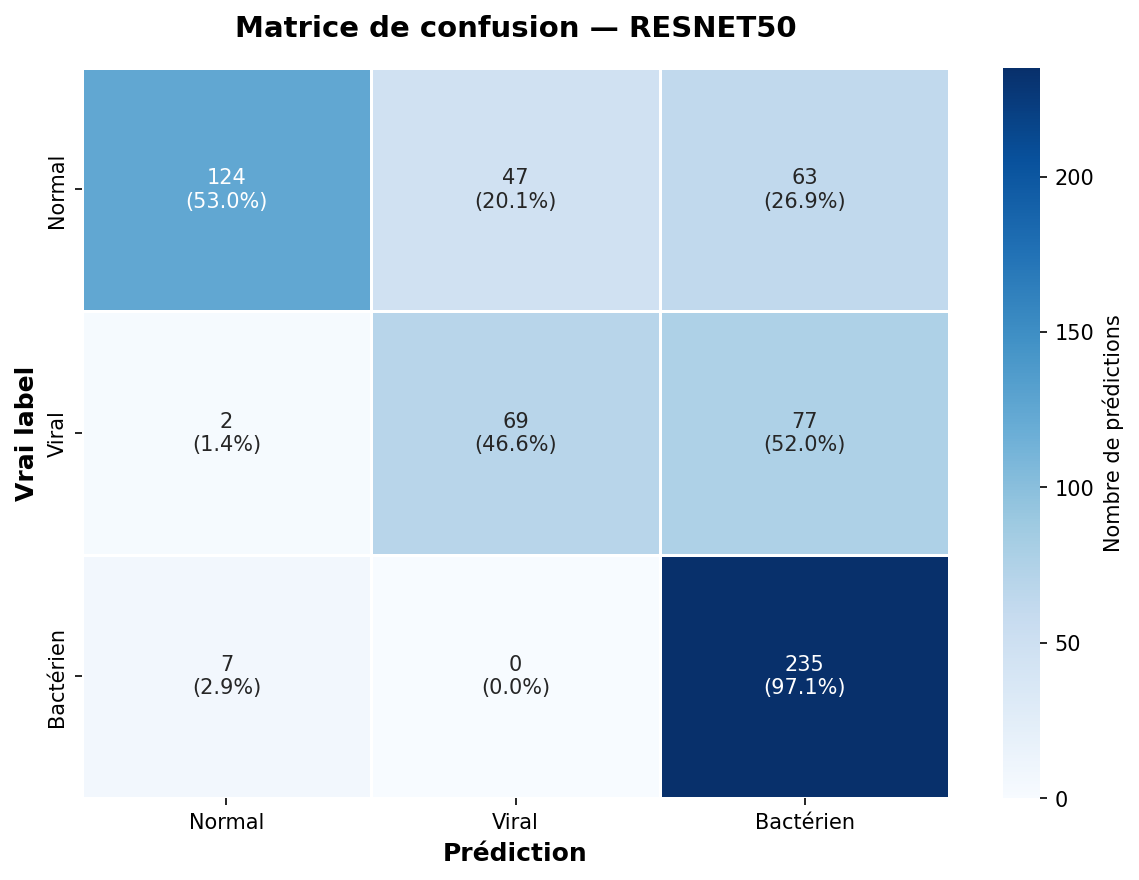
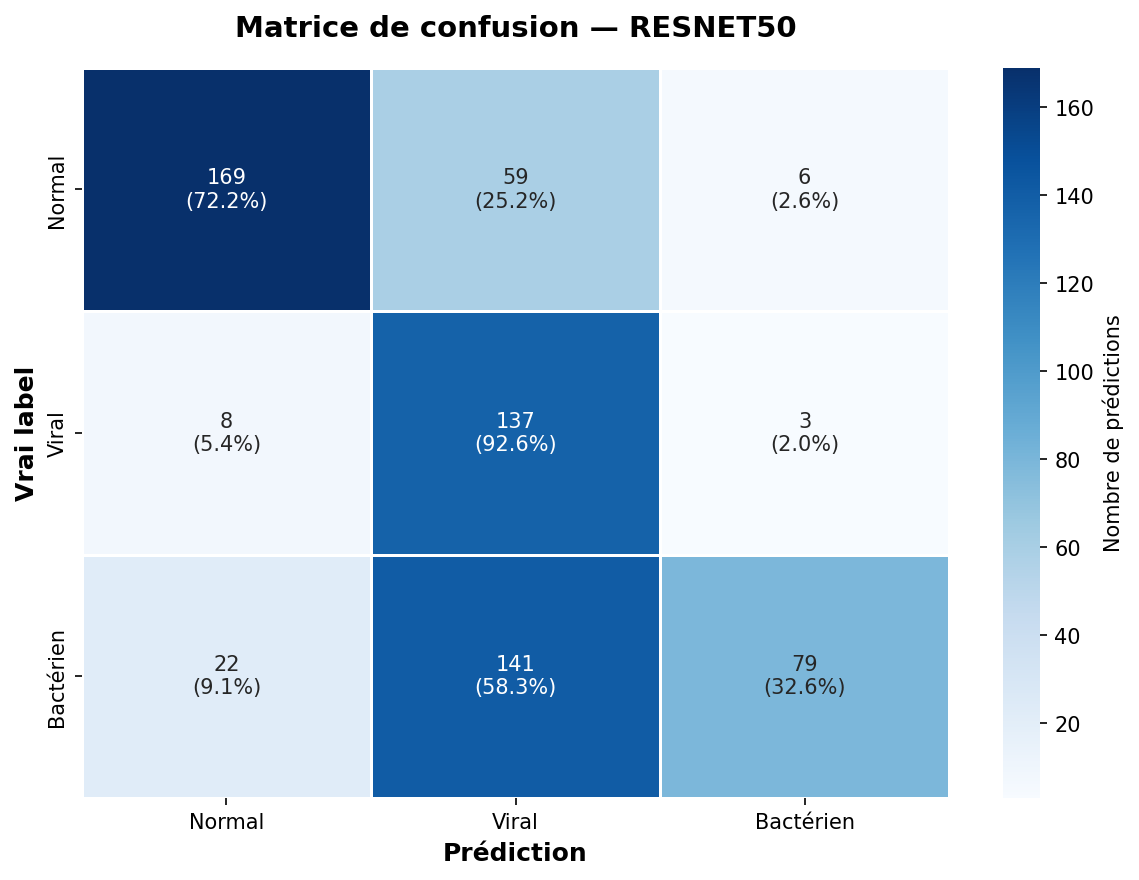
feat(main/registry): update statics values

diff --git a/main.py b/main.py
@@ -14,8 +14,8 @@ import argparse
 import torch
 import torch.nn as nn
 import torch.optim as optim
-from torch.optim.lr_scheduler import ReduceLROnPlateau
-from torch.utils.data import DataLoader
+from torch.optim.lr_scheduler import ReduceLROnPlateau, OneCycleLR
+from torch.utils.data import DataLoader, WeightedRandomSampler
 
 from src.data import Lungdataset, get_train_transforms, get_val_transforms
 from src.models import get_model, MODEL_REGISTRY, EnsemblePredictor
@@ -28,10 +28,10 @@ NUM_CLASSES = 3
 BATCH_SIZE = 16 
 LR = 1e-5
 EPOCHS = 50
-PATIENCE = 10 
+PATIENCE = 15 
 LABEL_SMOOTHING = 0.05 
 GRAD_ACCUM_STEPS = 2
-MIXUP_ALPHA = 0.5 
+MIXUP_ALPHA = 0.2
 MODELS_DIR = "models"
 TRAIN_DIR = "data/raw/train"
 VAL_DIR = "data/raw/test"
@@ -101,18 +101,20 @@ def train_single_model(name, train_loader, val_loader, class_weights, device):
     total = sum(p.numel() for p in model.parameters())
     print(f"  Params : {trainable:,} entraînables / {total:,} total ({trainable/total*100:.1f}%)")
 
-    criterion = nn.CrossEntropyLoss(
-        #weight=class_weights.to(device),
-        label_smoothing=LABEL_SMOOTHING,
-    )
+    # Augmentation du poids de la classe "Normal" (index 0)
+    criterion = nn.CrossEntropyLoss(label_smoothing=LABEL_SMOOTHING)
+
     optimizer = optim.Adam(
         filter(lambda p: p.requires_grad, model.parameters()),
         lr=LR,
     )
 
-    # LR Scheduler : réduit le LR quand la val_loss stagne
-    scheduler = ReduceLROnPlateau(
-        optimizer, mode="min", factor=0.5, patience=5
+    # LR Scheduler : OneCycleLR
+    scheduler = OneCycleLR(
+        optimizer,
+        max_lr=LR * 10,
+        epochs=EPOCHS,
+        steps_per_epoch=len(train_loader)
     )
 
     model_path = os.path.join(MODELS_DIR, f"{name}.pth")
@@ -139,13 +141,11 @@ def train_single_model(name, train_loader, val_loader, class_weights, device):
             model, train_loader, criterion, optimizer, device,
             use_mixup=True, mixup_alpha=MIXUP_ALPHA,
             grad_accum_steps=GRAD_ACCUM_STEPS,
+            scheduler=scheduler
         )
         val_loss, val_acc = validate(model, val_loader, criterion, device)
 
         print(f"  Train Loss: {train_loss:.4f} | Val Loss: {val_loss:.4f} | Val Acc: {val_acc*100:.2f}%")
-
-        # LR Scheduler step
-        scheduler.step(val_loss)
 
         if val_loss < best_val_loss:
             best_val_loss = val_loss
@@ -172,14 +172,17 @@ def setup():
     train_ds = Lungdataset(root_dir=TRAIN_DIR, transform=get_train_transforms())
     val_ds = Lungdataset(root_dir=VAL_DIR, transform=get_val_transforms())
 
-    train_loader = DataLoader(train_ds, batch_size=BATCH_SIZE, shuffle=True, num_workers=4, pin_memory=True)
+    class_weights = compute_class_weights(train_ds)
+    print(f"Poids de classe : {class_weights.tolist()}")
+
+    sample_weights = [class_weights[label].item() for _, label in train_ds.samples]
+    sampler = WeightedRandomSampler(weights=sample_weights, num_samples=len(sample_weights), replacement=True)
+
+    train_loader = DataLoader(train_ds, batch_size=BATCH_SIZE, sampler=sampler, num_workers=4, pin_memory=True)
     val_loader = DataLoader(val_ds, batch_size=BATCH_SIZE, shuffle=False, num_workers=4, pin_memory=True)
 
     print(f"\nDataset train : {len(train_ds)} images")
     print(f"Dataset val   : {len(val_ds)} images")
-
-    class_weights = compute_class_weights(train_ds)
-    print(f"Poids de classe : {class_weights.tolist()}")
 
     return device, train_loader, val_loader, train_ds, val_ds, class_weights
 

diff --git a/src/models/registry.py b/src/models/registry.py
@@ -12,17 +12,19 @@ from torchvision import models
 
 
 def _build_densenet121(num_classes):
-    """
-    DenseNet121 : standard en imagerie médicale (CheXNet).
-    Connexions denses → capture les textures fines (verre dépoli, opacités).
-    """
     model = models.densenet121(weights=models.DenseNet121_Weights.IMAGENET1K_V1)
-
-    # Remplacement du classifieur (in_features = 1024 pour DenseNet121)
+    
+    # Au lieu de tout geler, dégelez le dernier bloc (features.denseblock4)
+    for param in model.parameters():
+        param.requires_grad = False
+    
+    for param in model.features.denseblock4.parameters():
+        param.requires_grad = True
+        
     num_ftrs = model.classifier.in_features
     model.classifier = nn.Sequential(
-        nn.Dropout(0.3),
-        nn.Linear(num_ftrs, num_classes),
+        nn.Dropout(0.4),
+        nn.Linear(num_ftrs, num_classes)
     )
     return model
 
@@ -33,6 +35,14 @@ def _build_efficientnet_b0(num_classes):
     Bon généralisateur, résistant à l'overfitting.
     """
     model = models.efficientnet_b0(weights=models.EfficientNet_B0_Weights.IMAGENET1K_V1)
+
+    # Dégel partiel : geler l'essentiel du modèle
+    for param in model.parameters():
+        param.requires_grad = False
+        
+    # Dégeler les dernières couches de features (ex: features[-2:])
+    for param in model.features[-2:].parameters():
+        param.requires_grad = True
 
     # Remplacement du classifieur (in_features = 1280 pour EfficientNet-B0)
     num_ftrs = model.classifier[1].in_features
@@ -49,6 +59,14 @@ def _build_resnet50(num_classes):
     Capture les patterns globaux de la radiographie.
     """
     model = models.resnet50(weights=models.ResNet50_Weights.IMAGENET1K_V1)
+
+    # Dégel partiel : geler l'essentiel du modèle
+    for param in model.parameters():
+        param.requires_grad = False
+        
+    # Dégeler le dernier bloc (layer4)
+    for param in model.layer4.parameters():
+        param.requires_grad = True
 
     # Remplacement de la couche fc
     num_ftrs = model.fc.in_features

diff --git a/src/training/trainer.py b/src/training/trainer.py
@@ -40,7 +40,7 @@ def mixup_criterion(criterion, outputs, labels_a, labels_b, lam):
 
 
 def train_one_epoch(model, loader, criterion, optimizer, device,
-                    use_mixup=True, mixup_alpha=0.4, grad_accum_steps=1):
+                    use_mixup=True, mixup_alpha=0.4, grad_accum_steps=1, scheduler=None):
     """
     Entraîne le modèle sur un epoch complet.
 
@@ -76,6 +76,8 @@ def train_one_epoch(model, loader, criterion, optimizer, device,
 
         if (step + 1) % grad_accum_steps == 0 or (step + 1) == len(loader):
             optimizer.step()
+            if scheduler is not None:
+                scheduler.step()
             optimizer.zero_grad()
 
         running_loss += loss.item() * grad_accum_steps  # Compenser la division
